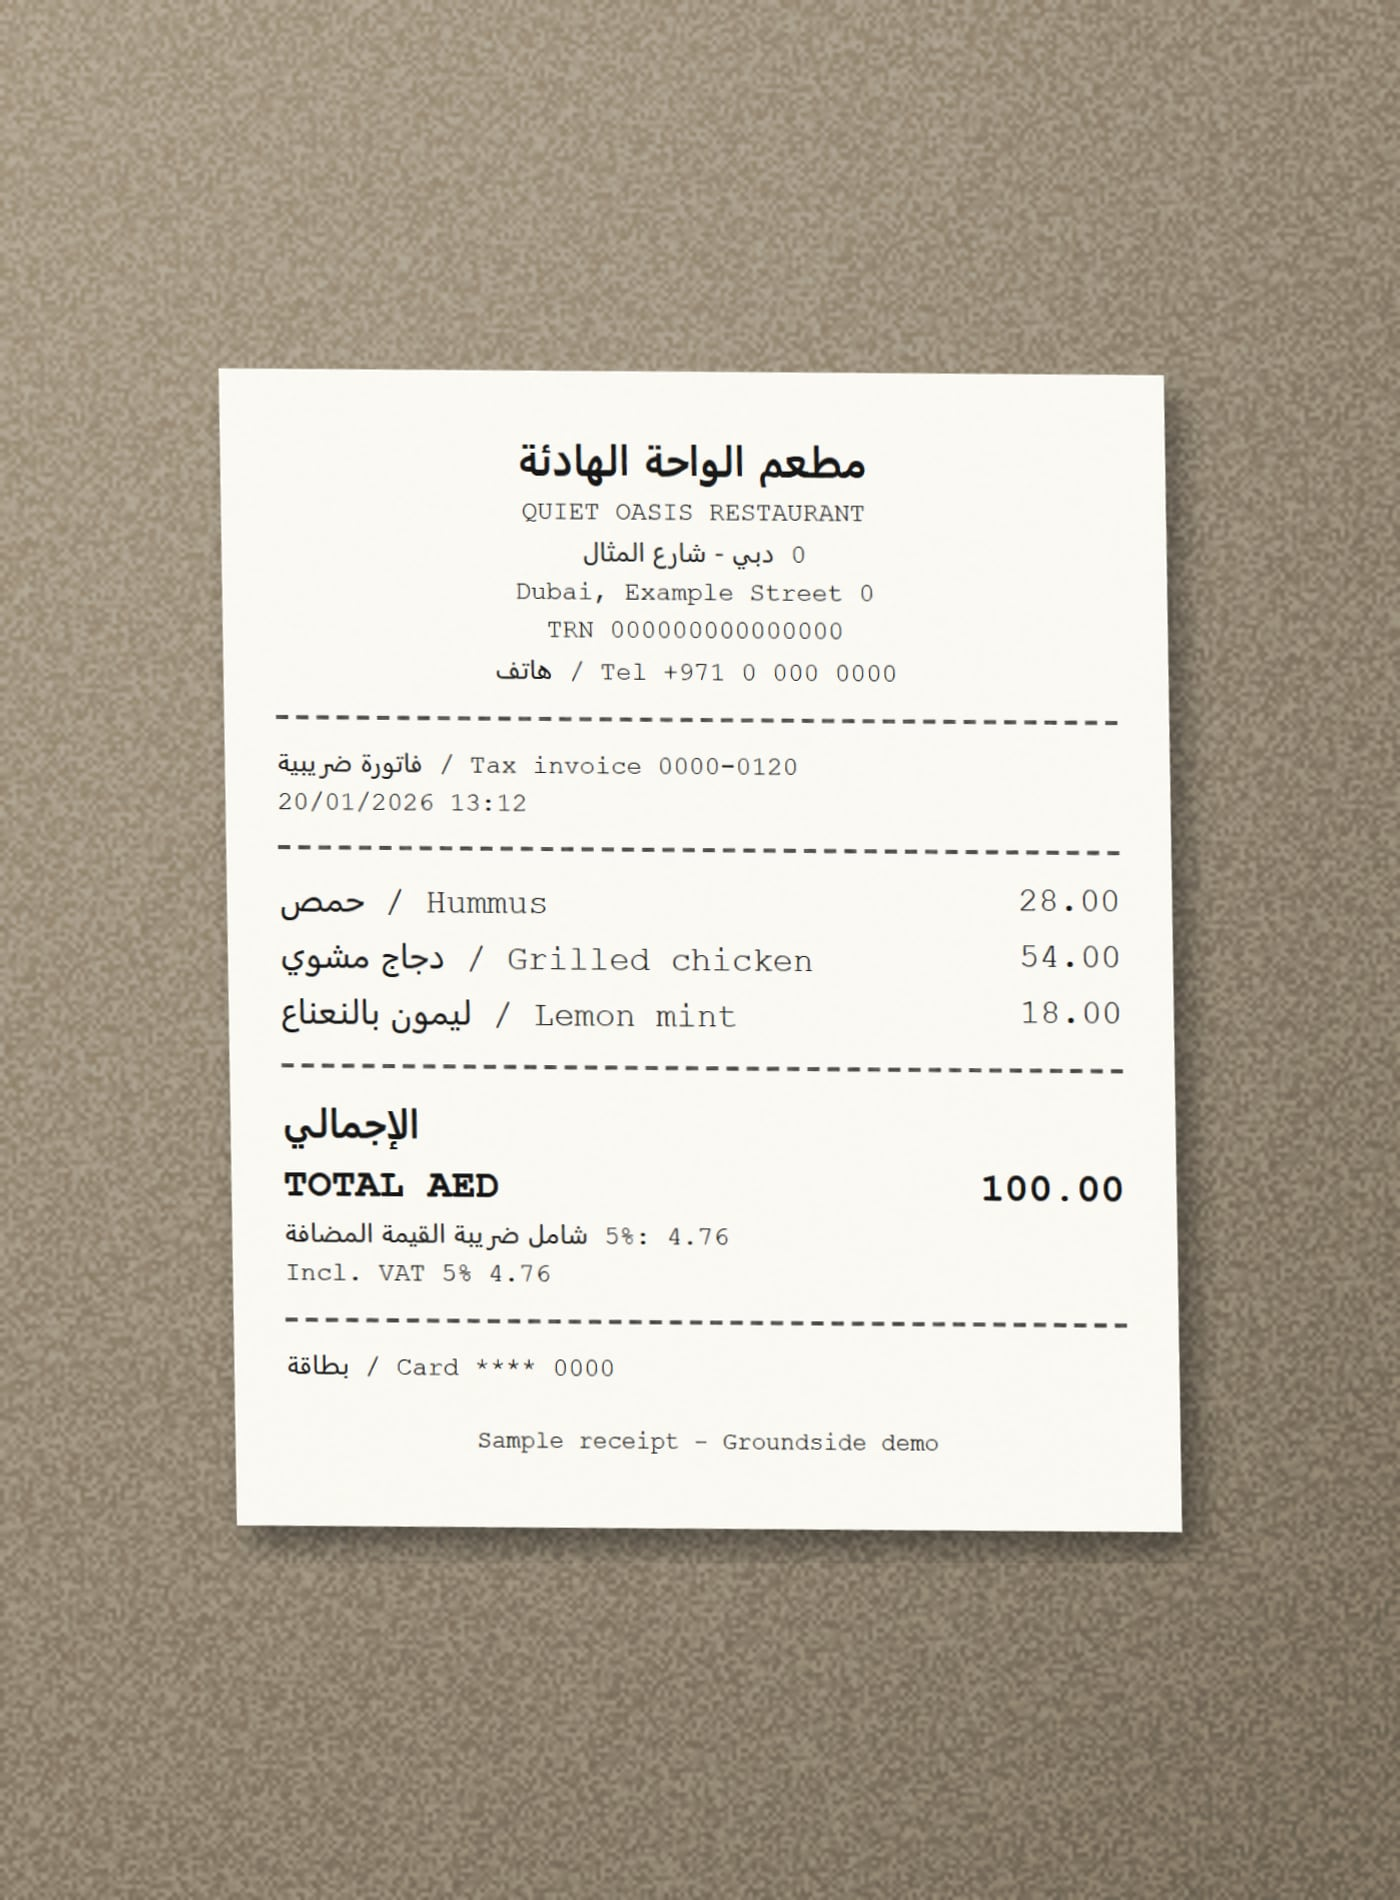
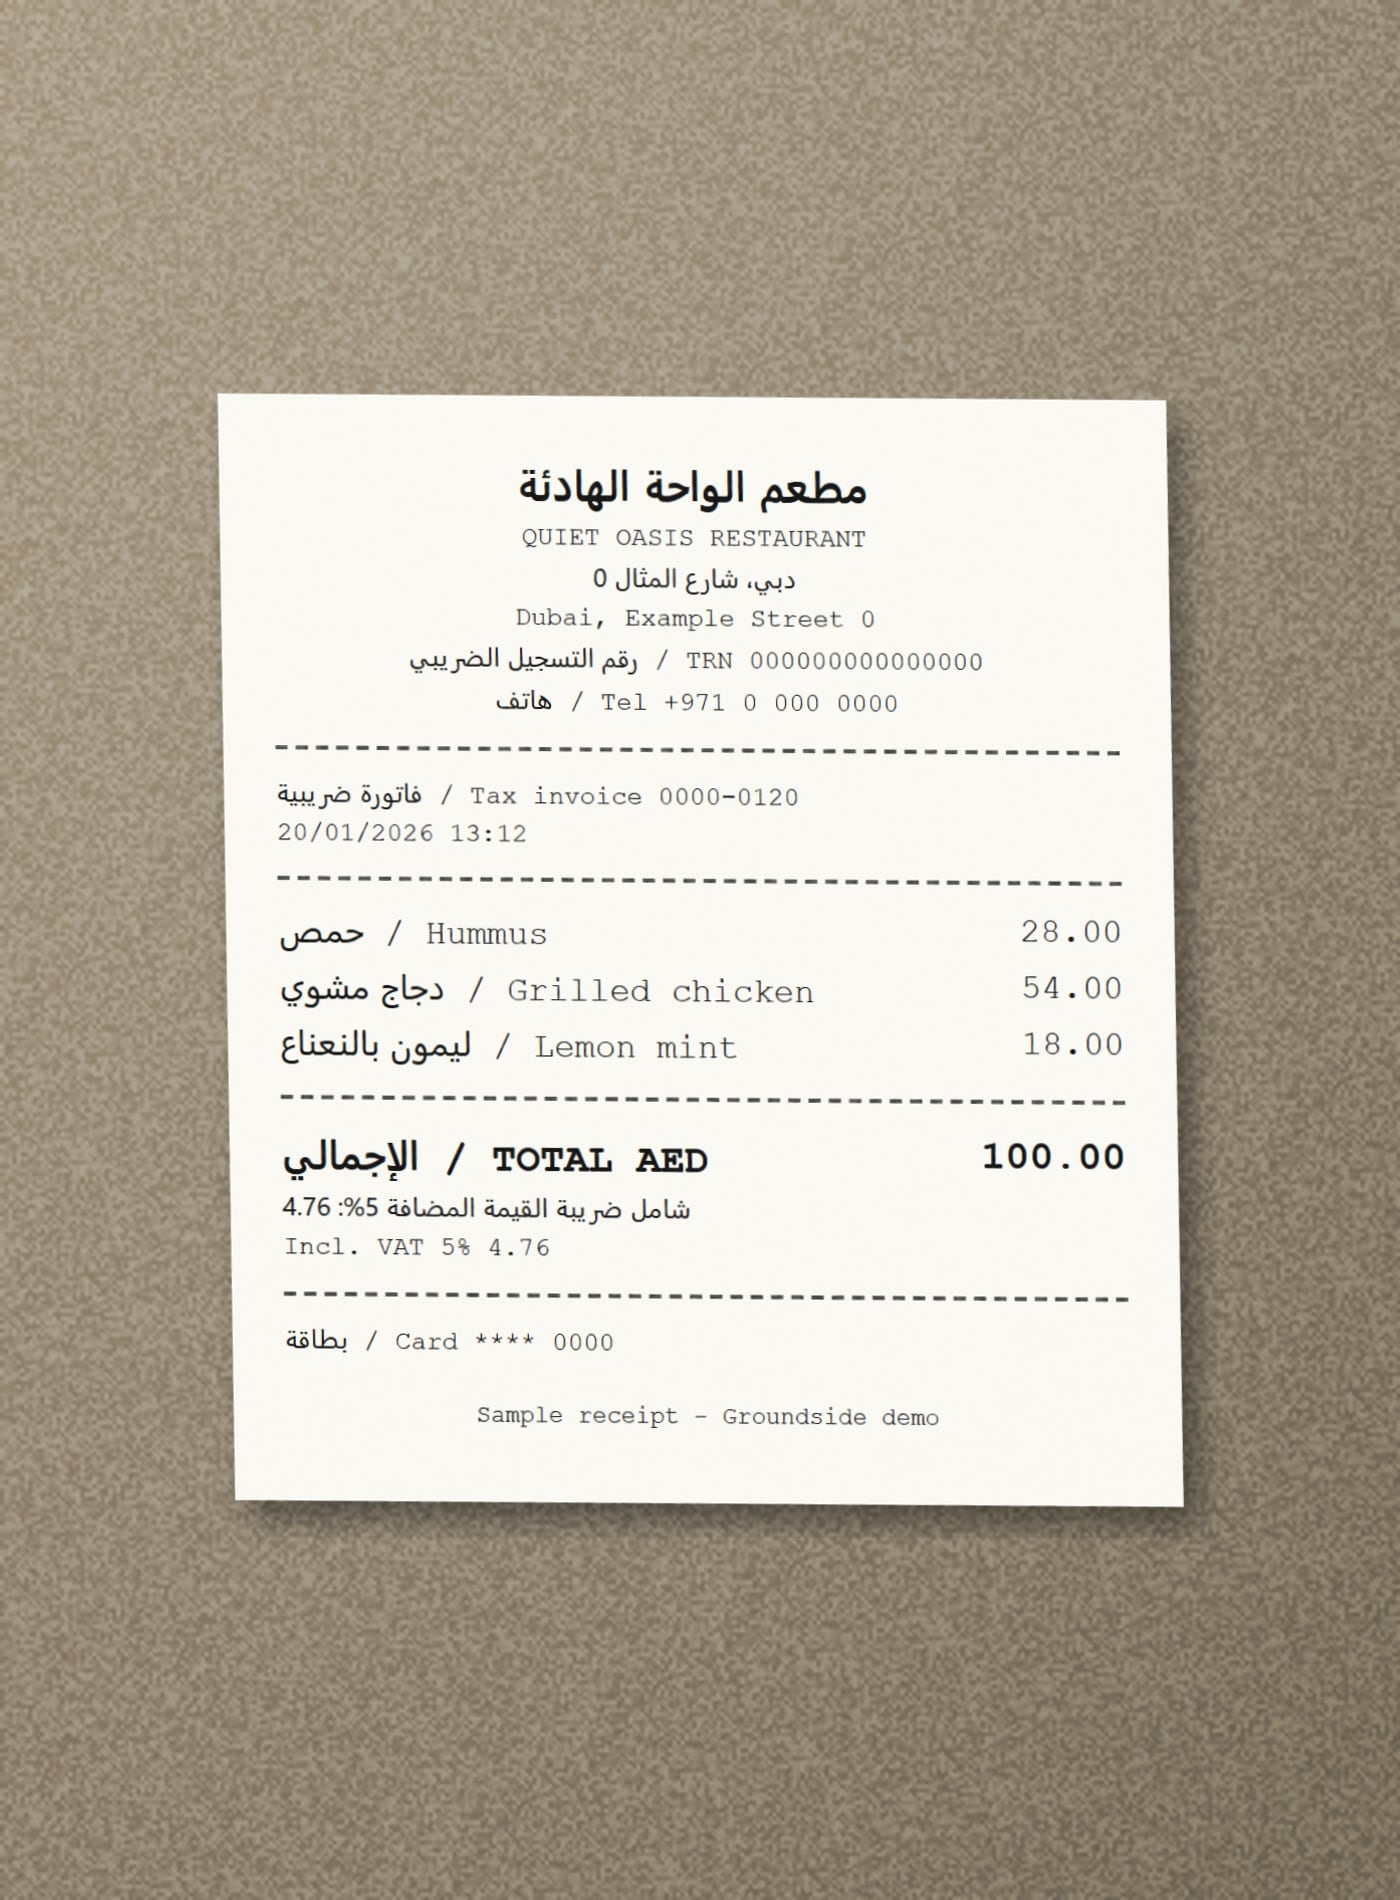
Receipt g: fix right-to-left order of mixed Arabic and number lines after the AI review
Arabic comma in the address, an Arabic TRN label and the Arabic total label on
the TOTAL line. Reviewed by AI, not by a human reader. A2 eval still reads
12/12 and decides 8/8.

Changed region(s): [[0.1536, 0.1863, 0.86, 0.8384], [0.7064, 0.6832, 0.7986, 0.7142], [0.6143, 0.6832, 0.645, 0.7142]]

diff --git a/scripts/make-receipts.ts b/scripts/make-receipts.ts
@@ -40,7 +40,7 @@ interface Receipt {
 
 const de = (n: number) => n.toFixed(2).replace(".", ",");
 /** Arabic runs in an Arabic font, isolated so mixed lines keep their order. */
-const ar = (s: string) => s.replace(/([\u0600-\u06FF\u0660-\u0669](?:[\u0600-\u06FF\u0660-\u0669\s:%-]*[\u0600-\u06FF\u0660-\u0669:%])?)/g, '<bdi class="ar">$1</bdi>');
+const ar = (s: string) => s.replace(/([\u0600-\u06FF](?:[\u0600-\u06FF0-9.\s:%-]*[\u0600-\u06FF0-9%])?)/g, '<bdi class="ar">$1</bdi>');
 const en = (n: number) => n.toFixed(2);
 
 // Passenger context for the expected decision: one who chose a refund keeps 45 EUR of meal
@@ -104,7 +104,7 @@ const RECEIPTS: Receipt[] = [
   },
   {
     key: "g-dubai-restaurant-aed", label: "Dubai restaurant in AED, before the disruption (Arabic and English)", lang: "ar", dir: "rtl", merchant: "Quiet Oasis Restaurant",
-    header: ["مطعم الواحة الهادئة", "QUIET OASIS RESTAURANT", "دبي - شارع المثال 0", "Dubai, Example Street 0", "TRN 000000000000000", "هاتف / Tel +971 0 000 0000"],
+    header: ["مطعم الواحة الهادئة", "QUIET OASIS RESTAURANT", "دبي، شارع المثال 0", "Dubai, Example Street 0", "رقم التسجيل الضريبي / TRN 000000000000000", "هاتف / Tel +971 0 000 0000"],
     meta: ["فاتورة ضريبية / Tax invoice 0000-0120"], date: "2026-01-20", time: "13:12", dateText: "20/01/2026  13:12", currency: "AED",
     lines: [{ text: "حمص / Hummus", amount: 28, category: "FOOD" }, { text: "دجاج مشوي / Grilled chicken", amount: 54, category: "FOOD" }, { text: "ليمون بالنعناع / Lemon mint", amount: 18, category: "NON_ALCOHOLIC_DRINK" }],
     vatText: ["شامل ضريبة القيمة المضافة 5%: 4.76", "Incl. VAT 5%                4.76"], payment: "بطاقة / Card  **** 0000",
@@ -139,8 +139,8 @@ function html(r: Receipt): string {
     <div class="sep"></div>
     ${rows}
     <div class="sep"></div>
-    ${r.lang === "ar" ? `<div class="row tot"><span>${ar("الإجمالي")}</span><span></span></div>` : ""}
-    <div class="row tot"><span>${r.lang === "de" ? "SUMME EUR" : r.lang === "it" ? "TOTALE EURO" : `TOTAL ${r.currency}`}</span><span>${fmt(total(r))}</span></div>
+
+    <div class="row tot"><span>${r.lang === "de" ? "SUMME EUR" : r.lang === "it" ? "TOTALE EURO" : r.lang === "ar" ? `${ar("الإجمالي")} / TOTAL ${r.currency}` : `TOTAL ${r.currency}`}</span><span>${fmt(total(r))}</span></div>
     ${r.vatText.map((v) => `<div class="small">${ar(v)}</div>`).join("")}
     <div class="sep"></div>
     <div class="small">${ar(r.payment)}</div>

diff --git a/docs/EVAL_A2.md b/docs/EVAL_A2.md
@@ -1,6 +1,6 @@
 # Eval report: A2 receipt reading
 
-Generated by `npm run eval:a2` on 2026-11-06T11:36:21.238Z. Model `gpt-6-luna`, prompt `A2.v2`.
+Generated by `npm run eval:a2` on 2026-11-06T16:21:53.353Z. Model `gpt-6-luna`, prompt `A2.v2`.
 
 All receipts here are **synthetic samples, not real receipts**:
 - `fixtures/receipts/`: photo-style samples made by `scripts/make-receipts.ts`, with invented merchants and zeroed tax IDs, phones and card digits; each prints "Sample receipt - Groundside demo".
@@ -12,22 +12,22 @@ Expected values come from the generator source, not from the AI.
 
 A case passes when total, date, time, currency, every line amount and every line category match the source. For the deliberately faded receipt, it also passes when the model reports low confidence instead of guessing.
 
-Result: 12 of 12 pass. Cost of this run: 0.0055 USD (estimated from token counts).
+Result: 12 of 12 pass. Cost of this run: 0.0057 USD (estimated from token counts).
 
 | Receipt | Result | Notes | Retries | Cost (USD) |
 |---|---|---|---|---|
-| receipts-synthetic/airport-cafe.png | pass | all fields match | 0 | 0.00027 |
-| receipts-synthetic/airport-hotel.png | pass | all fields match | 0 | 0.00041 |
-| receipts-synthetic/dinner-with-beer.png | pass | all fields match | 0 | 0.00029 |
+| receipts-synthetic/airport-cafe.png | pass | all fields match | 0 | 0.00030 |
+| receipts-synthetic/airport-hotel.png | pass | all fields match | 0 | 0.00036 |
+| receipts-synthetic/dinner-with-beer.png | pass | all fields match | 0 | 0.00035 |
 | receipts-synthetic/outside-window.png | pass | all fields match | 0 | 0.00030 |
-| receipts-synthetic/sum-mismatch.png | pass | all fields match | 0 | 0.00034 |
-| receipts/a-frankfurt-cafe.jpg | pass | all fields match | 0 | 0.00055 |
-| receipts/b-frankfurt-restaurant-beer.jpg | pass | all fields match | 0 | 0.00056 |
-| receipts/c-frankfurt-hotel-invoice.jpg | pass | all fields match | 0 | 0.00054 |
-| receipts/d-malpensa-bar.jpg | pass | all fields match | 0 | 0.00053 |
-| receipts/e-frankfurt-faded.jpg | pass | total 21.7 vs 11.1; date null vs 2026-01-24; time null vs 21:05; 0 lines vs 3 (model reported low confidence: date, time, total, lineItems) | 0 | 0.00069 |
+| receipts-synthetic/sum-mismatch.png | pass | all fields match | 0 | 0.00038 |
+| receipts/a-frankfurt-cafe.jpg | pass | all fields match | 0 | 0.00054 |
+| receipts/b-frankfurt-restaurant-beer.jpg | pass | all fields match | 0 | 0.00055 |
+| receipts/c-frankfurt-hotel-invoice.jpg | pass | all fields match | 0 | 0.00050 |
+| receipts/d-malpensa-bar.jpg | pass | all fields match | 0 | 0.00054 |
+| receipts/e-frankfurt-faded.jpg | pass | total 31.7 vs 11.1; date null vs 2026-01-24; time null vs 21:05; 0 lines vs 3 (model reported low confidence: date, time, total, lineItems) | 0 | 0.00093 |
 | receipts/f-frankfurt-total-mismatch.jpg | pass | all fields match | 0 | 0.00051 |
-| receipts/g-dubai-restaurant-aed.jpg | pass | all fields match | 0 | 0.00049 |
+| receipts/g-dubai-restaurant-aed.jpg | pass | all fields match | 0 | 0.00046 |
 
 ## Decision (code checks on the AI reading)
 
